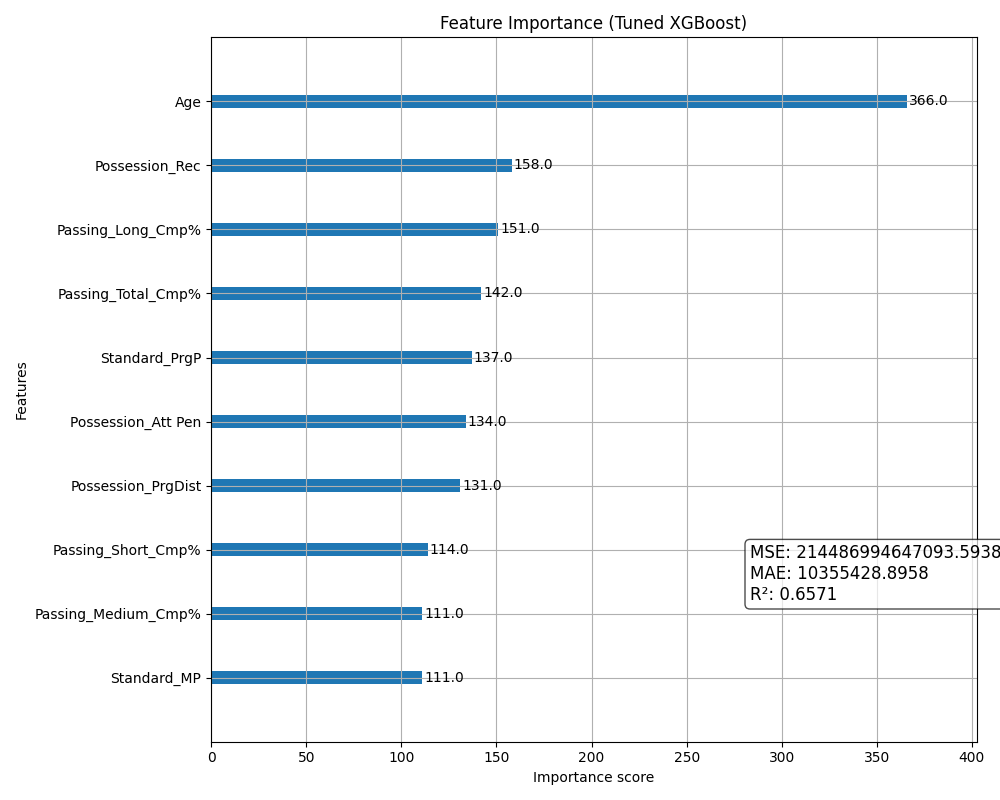
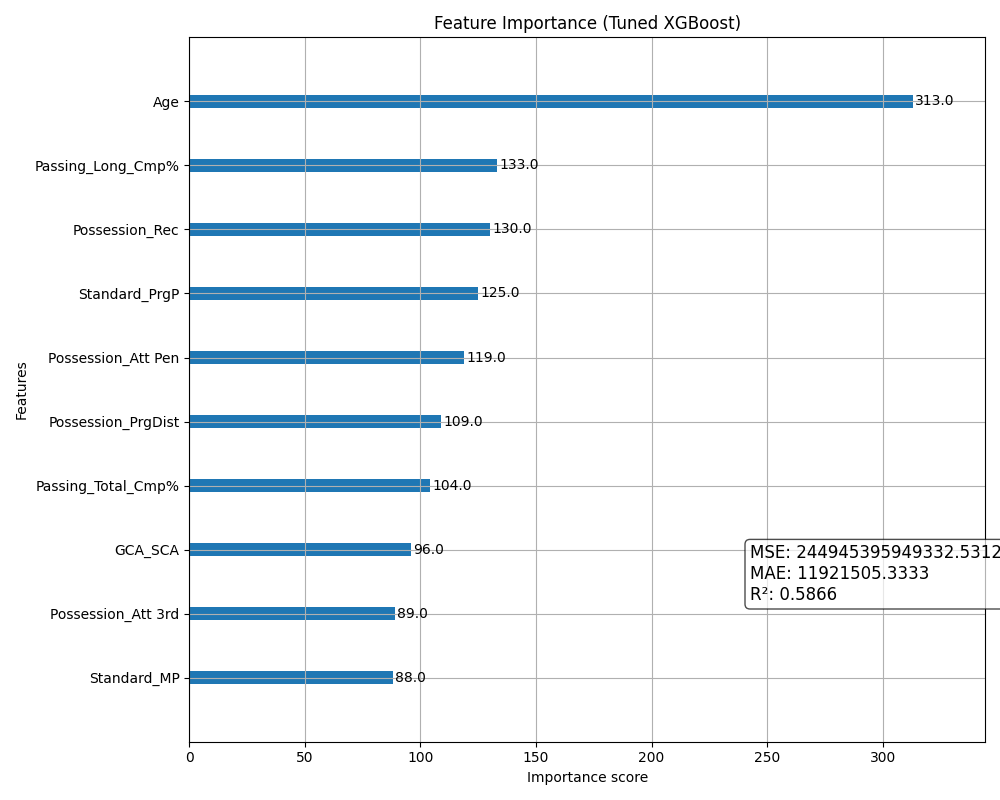
nothing

diff --git a/Problem_IV/Tuning.py b/Problem_IV/Tuning.py
@@ -1,6 +1,6 @@
 import pandas as pd
 import pickle
-from sklearn.model_selection import train_test_split, RandomizedSearchCV
+from sklearn.model_selection import train_test_split, RandomizedSearchCV, GridSearchCV
 from sklearn.metrics import mean_squared_error, mean_absolute_error, r2_score
 import xgboost as xgb
 import matplotlib.pyplot as plt
@@ -35,49 +35,79 @@ X = df[top_features]
 y = df['Estimated Value']
 
 # === Split data into training and testing ===
-X_train, X_test, y_train, y_test = train_test_split(X, y, test_size=0.2,random_state=40)
+X_train, X_test, y_train, y_test = train_test_split(X, y, test_size=0.15, random_state=30)
 print("Data split into training and testing sets.")
 
-# === Define the XGBoost model ===
-model = xgb.XGBRegressor(objective='reg:squarederror', verbosity=0)
+# === Step 1: Randomized Search for rough tuning ===
+model = xgb.XGBRegressor(
+    objective='reg:squarederror', 
+    verbosity=0
+)
 
-# === Define the hyperparameter grid for RandomizedSearchCV ===
 param_dist = {
-    'learning_rate': [0.01, 0.02, 0.03, 0.1, 0.2, 0.3],
-    'n_estimators': [100, 200, 500, 1000],
-    'min_child_weight': [1, 5, 8],
-    'subsample': [0.7, 0.8, 1.0],
-    'colsample_bytree': [0.7, 0.8, 1.0],
+    'learning_rate': [0.01, 0.02, 0.05, 0.1, 0.2, 0.3],
+    'n_estimators': [100, 200, 300, 500, 800],
+    'min_child_weight': [1, 2, 3, 4, 5, 6, 7, 8, 9, 10],
+    'subsample': [0.6, 0.7, 0.8, 0.9, 1.0],
+    'colsample_bytree': [0.6, 0.7, 0.8, 0.9, 1.0],
     'gamma': [0, 1, 5],
-    'reg_alpha': [0.1, 1, 5],
+    'reg_alpha': [0, 0.1, 0.5],
     'reg_lambda': [1, 5, 10]
 }
 
-# === Set up RandomizedSearchCV ===
+print("\n🔹 Starting Randomized Search (rough tuning)...")
 random_search = RandomizedSearchCV(
     estimator=model,
     param_distributions=param_dist,
-    n_iter=250,
-    cv=3,
+    n_iter=50,
     scoring='neg_mean_squared_error',
     n_jobs=-1,
+    cv=3,
     verbose=2,
 )
 
-# === Fit RandomizedSearchCV ===
-print("🔹 Starting hyperparameter tuning for XGBoost...")
 try:
     random_search.fit(X_train, y_train)
-    print("Hyperparameter tuning completed.")
+    print("Randomized Search completed.")
 except Exception as e:
-    print(f"Error during random search: {e}")
+    print(f"Error during Randomized Search: {e}")
     exit()
 
-# === Best hyperparameters ===
-print("Best Hyperparameters:", random_search.best_params_)
+best_random_params = random_search.best_params_
+print("\nBest parameters from Randomized Search:", best_random_params)
 
-# === Best model ===
-best_model = random_search.best_estimator_
+# === Step 2: Grid Search for fine tuning ===
+param_grid = {
+    'learning_rate': [best_random_params['learning_rate'] * 0.8, best_random_params['learning_rate'], best_random_params['learning_rate'] * 1.2],
+    'n_estimators': [best_random_params['n_estimators'] - 100, best_random_params['n_estimators'], best_random_params['n_estimators'] + 100],
+    'min_child_weight': [max(1, best_random_params['min_child_weight'] - 1), best_random_params['min_child_weight'], best_random_params['min_child_weight'] + 1],
+    'subsample': [max(0.5, best_random_params['subsample'] - 0.1), best_random_params['subsample'], min(1.0, best_random_params['subsample'] + 0.1)],
+    'colsample_bytree': [max(0.5, best_random_params['colsample_bytree'] - 0.1), best_random_params['colsample_bytree'], min(1.0, best_random_params['colsample_bytree'] + 0.1)],
+    'gamma': [best_random_params['gamma']],
+    'reg_alpha': [best_random_params['reg_alpha']],
+    'reg_lambda': [best_random_params['reg_lambda']]
+}
+
+print("\n🔹 Starting Grid Search (fine tuning)...")
+grid_search = GridSearchCV(
+    estimator=xgb.XGBRegressor(objective='reg:squarederror', verbosity=0),
+    param_grid=param_grid,
+    scoring='neg_mean_squared_error',
+    n_jobs=-1,
+    cv=3,
+    verbose=2
+)
+
+try:
+    grid_search.fit(X_train, y_train)
+    print("Grid Search completed.")
+except Exception as e:
+    print(f"Error during Grid Search: {e}")
+    exit()
+
+# === Final best model ===
+best_model = grid_search.best_estimator_
+print("\nBest Hyperparameters after fine tuning:", grid_search.best_params_)
 
 # === Make predictions on test set ===
 y_pred = best_model.predict(X_test)
@@ -87,16 +117,23 @@ mse = mean_squared_error(y_test, y_pred)
 mae = mean_absolute_error(y_test, y_pred)
 r2 = r2_score(y_test, y_pred)
 
-print(f"\nXGBoost Tuned Model Performance:")
+print(f"\nXGBoost Final Tuned Model Performance:")
 print(f"MSE: {mse:.4f}")
 print(f"MAE: {mae:.4f}")
 print(f"R²: {r2:.4f}")
+
+# === Save the model ===
+try:
+    pickle.dump(best_model, open('Model_file/final_xgb_model.pkl', 'wb'))
+    print("\nModel saved successfully as 'xgb_model.pkl'.")
+except Exception as e:
+    print(f"Error saving model: {e}")
 
 # === Visualize feature importance with performance metrics ===
 try:
     fig, ax = plt.subplots(figsize=(10, 8))
     xgb.plot_importance(best_model, max_num_features=10, ax=ax)
-    plt.title("Feature Importance (Tuned XGBoost)")
+    plt.title("Feature Importance (Final Tuned XGBoost)")
 
     # Add performance metrics as a textbox inside the plot
     textstr = '\n'.join((
@@ -108,8 +145,7 @@ try:
     plt.gcf().text(0.75, 0.25, textstr, fontsize=12, bbox=props)
 
     plt.tight_layout()
-    plt.savefig('Model_file/xgboost_tuned_feature_importance.png')
+    plt.savefig('Model_file/xgboost_tuned_feature_importance.png.png')
     plt.show()
 except Exception as e:
     print(f"Error plotting feature importance: {e}")
-
